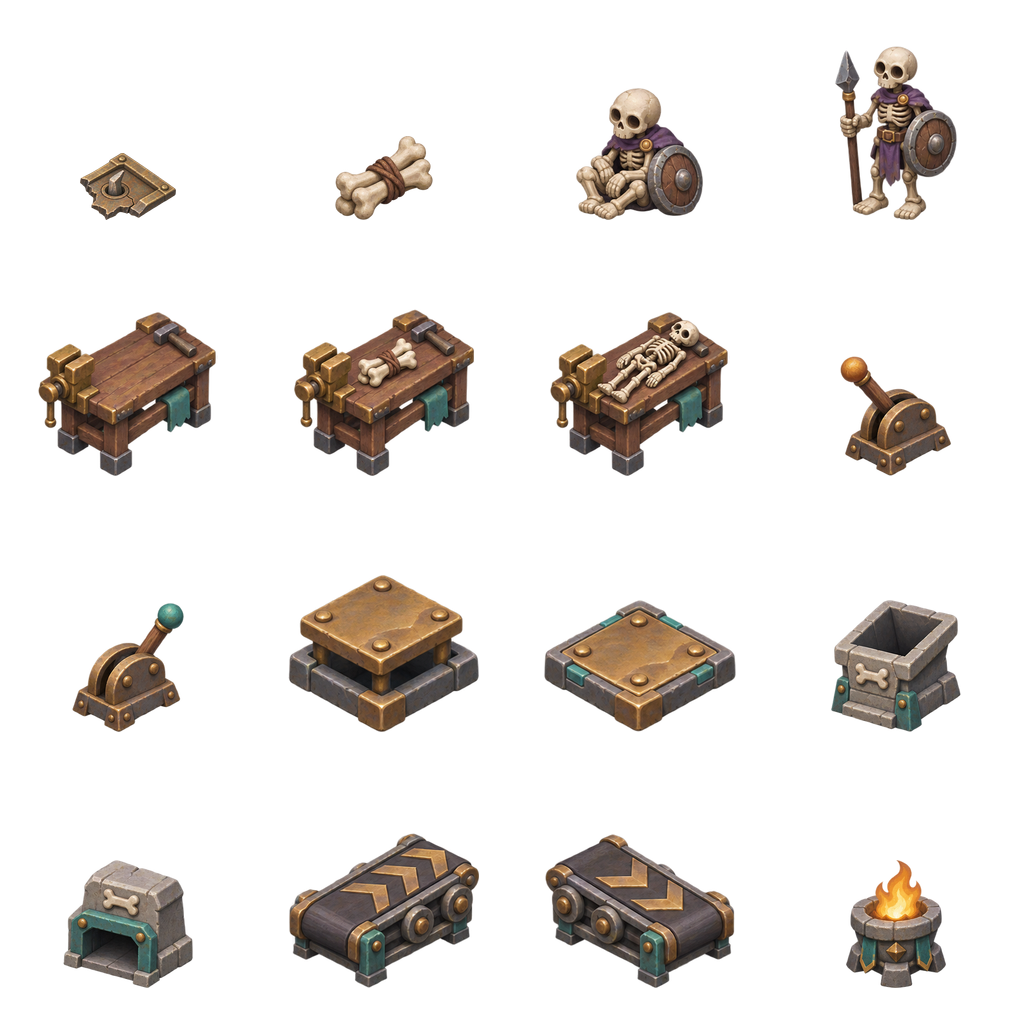
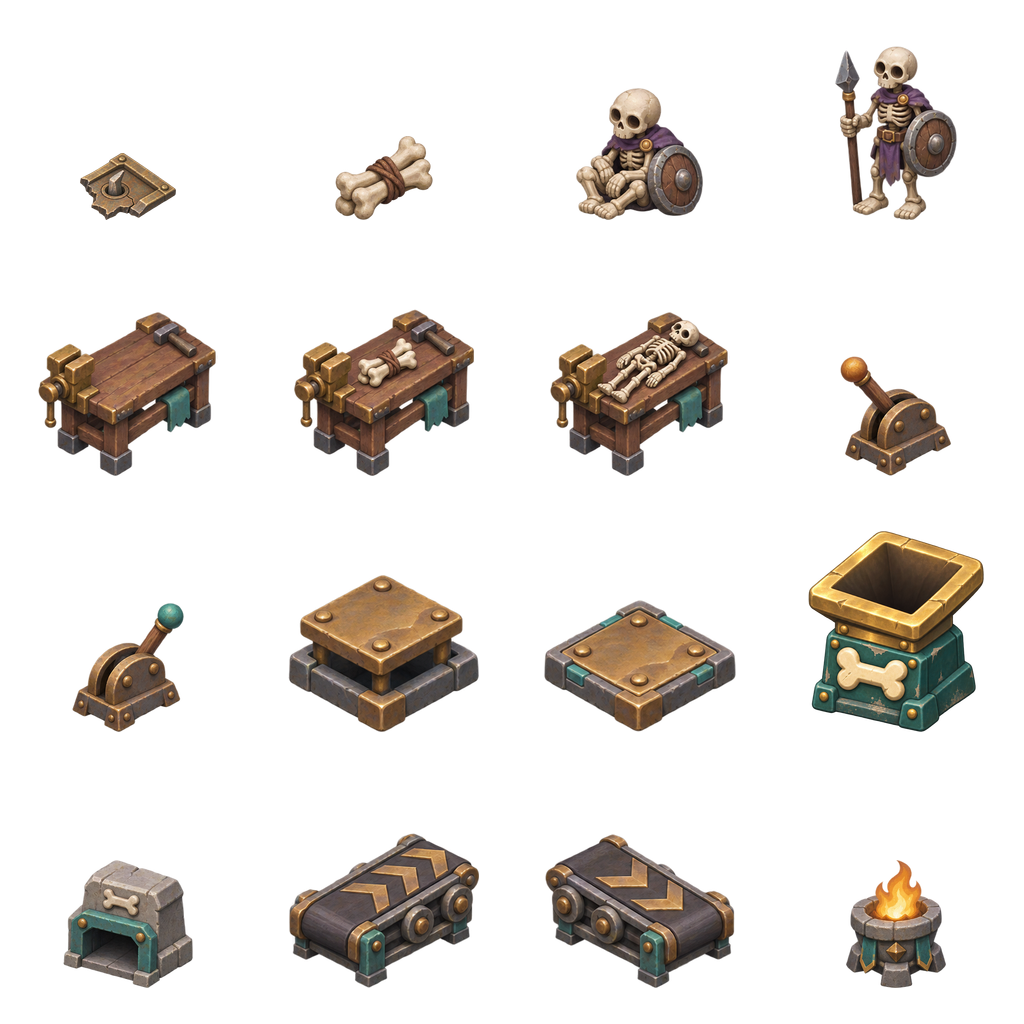
feat: 뼈 투입구 디자인을 확대하고 앞 문에 가리는 문제 개선

Changed region(s): [[0.7812, 0.5, 0.9688, 0.7188]]

diff --git a/game/view.py b/game/view.py
@@ -114,6 +114,7 @@ class View:
     def reset_gates(self):
         self.gate_game = None
         self.gate_motions = {}
+        self.gate_inlets = {}
 
     def reset_plates(self):
         self.plate_motions = {}
@@ -303,6 +304,18 @@ class View:
                     return pos
                 if gate_mask:
                     sx, sy, scale, opening, flip = gate_mask
+                    # 반투명 문 너머 실제로 보이는 투입구를 클릭하면 그 칸을 고른다.
+                    through_inlet = False
+                    for inlet_region in self.gate_inlets.get((pos, (left, bottom, right, top)), ()):
+                        if inlet_region not in self.hit_regions:
+                            continue
+                        inlet = self.hit_masks[inlet_region]
+                        if self.art.hit_test(*inlet[:4], (x, y), *inlet[4:]):
+                            through_inlet = True
+                            break
+                    if through_inlet:
+                        # 문만 통과시켜 그 사이의 다른 불투명 물체는 정상적으로 판정한다.
+                        continue
                     if not self.art.gate_hit_test(sx, sy, scale, (x, y), opening, flip):
                         continue
                     return pos
@@ -435,9 +448,22 @@ class View:
         flip = along_x > along_y
         if opening is None:
             opening = 0 if status == "closed" else 1
-        sprite = self.art.draw_gate(sx, sy, scale, opening, flip=flip)
+        left, bottom, right, top = self.art.bounds("gate_closed", sx, sy, scale, flip)
+        hidden_inlets = [region for region, mask in self.hit_masks.items()
+                         if mask[0] == "chute_inlet"
+                         and min(right, region[1][2]) - max(left, region[1][0]) > 12
+                         and min(top, region[1][3]) - max(bottom, region[1][1]) > 12]
+        atlas = self.art.atlases["gates"]
+        # 앞쪽 문의 형체는 남기되, 뒤에 있는 필수 장치가 완전히 묻히지 않게 한다.
+        atlas.opacify(.42 if hidden_inlets else 1)
+        try:
+            sprite = self.art.draw_gate(sx, sy, scale, opening, flip=flip)
+        finally:
+            atlas.opacify(1)
         self.sprite_hit_region(pos, sprite, sx, sy, scale, flip)
         self.gate_hit_masks[self.hit_regions[-1]] = (sx, sy, scale, opening, flip)
+        if hidden_inlets:
+            self.gate_inlets[self.hit_regions[-1]] = hidden_inlets
 
     def board(self, game):
         level, state = game.level, game.state
@@ -471,6 +497,7 @@ class View:
         self.hit_regions.clear()
         self.hit_masks.clear()
         self.gate_hit_masks.clear()
+        self.gate_inlets.clear()
         self.plate_hit_masks.clear()
 
         exit_ready = (state.installed == level.traps and (not level.traps or state.active)
@@ -543,7 +570,7 @@ class View:
                     labels.append((pos, "벨트 " + {"up": "↗", "right": "↘", "down": "↙", "left": "↖"}[direction]))
                 if pos in level.chutes:
                     objects.append((depth, 1, "chute_inlet", sx, sy))
-                    labels.append((pos, f"{level.device_labels[pos]} 투입"))
+                    labels.append((pos, "뼈 투입구"))
                 elif pos in level.chutes.values():
                     objects.append((depth, 0.5, "chute_outlet", sx, sy))
                     if pos not in level.plates:

diff --git a/tests/smoke_gates.py b/tests/smoke_gates.py
@@ -2,6 +2,7 @@
 
 from copy import deepcopy
 from dataclasses import replace
+import ctypes
 from math import ceil, floor
 from unittest.mock import patch
 
@@ -53,6 +54,20 @@ def main():
                            for y in range(ceil(top) - 1, floor(bottom), -1)
                            for x in range(ceil(left), ceil(right)))
                 assert game.walkable(gate) == (status == "open")
+                alpha = ctypes.c_ubyte()
+                assert p.SDL_GetTextureAlphaMod(view.art.atlases["gates"].texture, ctypes.byref(alpha)) == 0
+                assert alpha.value == 255  # Transparency must not leak into the next gate draw.
+                if index == 4:
+                    assert view.gate_inlets
+                    inlet_region = next(iter(view.gate_inlets.values()))[0]
+                    inlet = view.hit_masks[inlet_region]
+                    ix1, iy1, ix2, iy2 = inlet_region[1]
+                    assert any(view.art.hit_test(*inlet[:4], (x, y), *inlet[4:])
+                               and view.art.gate_hit_test(*view.gate_hit_masks[region][:3], (x, y),
+                                                         *view.gate_hit_masks[region][3:])
+                               and view.pick_cell(game, x, y) == inlet_region[0]
+                               for y in range(ceil(iy1), floor(iy2), 2)
+                               for x in range(ceil(ix1), floor(ix2), 2))
                 checked += 1
 
             check()

diff --git a/assets/art_v1/README.md b/assets/art_v1/README.md
@@ -14,7 +14,7 @@
 | `objects/` | 17 | 부품, 뼈 묶음, 운반·배치 병사, 발판 일체형 파손 거치대, 작업대 3상태, 레버 2상태, 발판 2상태, 투입구 입·출력, 벨트 2방향, 화로 |
 | `characters/worker/` | 16 | NE·SE·SW·NW 각 방향의 대기·걷기 A·걷기 B·운반 자세 |
 | `atlases/` | 5 | 256px 셀로 재정렬한 환경·물체·캐릭터·낮은 벽 아틀라스와 거치대 단일 셀 |
-| `sources/` | 17 PNG + JSON | 빌드에 사용하는 원본 15장과 이전 몬스터 발판·독립 거치대 원본 2장, 전체 프롬프트. 원본 PNG는 보존한다. |
+| `sources/` | 18 PNG + JSON | 빌드에 사용하는 원본 16장과 이전 몬스터 발판·독립 거치대 원본 2장, 전체 프롬프트. 원본 PNG는 보존한다. |
 | `previews/` | 3 | 전체 목록, 입문 3번 방 조립 예시, 4×4 타일 연결 검토 |
 
 개별 PNG는 모두 **256×256 RGBA8**이다. 환경 아틀라스는 **1024×768**, 물체·캐릭터 아틀라스는 **1024×1024**, 추가 낮은 벽 아틀라스는 **1024×768**, 거치대 아틀라스는 **256×256**이다. 자세한 파일·크기·기준점·SHA-256·프레임 좌표는 [manifest.json](manifest.json)에 기록한다.
@@ -26,6 +26,12 @@
 빈 초소는 [발판 일체형 파손 거치대](objects/post_rack.png) 한 장으로 표시한다. 거치대가 발판의 황동 고정부에 직접 연결되고, 찢어진 천과 깨진 방패가 발판에 닿도록 함께 그렸다. 크게 파손된 투구·어깨 갑옷·방패는 유지하며, 중복되는 바닥 해골 문양과 별도 나무 다리를 제거했다. 차분한 보라색 석재와 황동 테두리, 앞쪽의 작은 발자국으로 전체 색감과 비율을 맞췄다.
 
 병사를 배치하면 같은 디자인의 `post_empty` 바닥과 기존 `soldier_deployed`로 전환한다. 통합 그림과 바닥의 폭 224px·아랫변·기준점 `(128, 160)`을 맞춰 전환 시 위치를 유지한다. 빈자리에는 ‘몬스터 배치’, 병사를 놓은 뒤에는 ‘배치 완료’를 표시한다. 되돌리기·재시작하면 통합 그림이 돌아온다. 내장 `image_gen`의 [통합 원본](sources/monster-post-integrated.png), [배치 후 바닥 원본](sources/monster-post-base-v2.png), [전체 프롬프트](sources/monster-post-integrated-prompts.json)를 보존했다. `node tools/art/build.mjs`로 재생성하며, 빌드는 투명 여백 정리·정렬·축소만 수행한다. 이전 독립 발판·거치대 원본과 프롬프트는 제작 기록으로 남긴다.
+
+### 2026-11-11 뼈 투입구 가독성
+
+`chute_inlet`을 큰 황동 테두리와 열린 투입구, 청록색 몸체, 밝은 뼈 표식으로 교체했다. 표시 폭을 130px에서 176px로 확대하고 기존 바닥 기준점 `(128, 198)`은 유지한다. 내장 `image_gen`으로 제작한 [원본](sources/bone-inlet-v2.png)과 [전체 프롬프트](sources/bone-inlet-v2-prompt.json)를 보존하며 기존 빌드 스크립트로 재생성한다. 공용 투입구를 사용하는 5·7·8번 방에 적용한다. 배출구 에셋은 변경하지 않았다.
+
+투입구를 앞에서 가리는 문만 42% 불투명도로 그린다. 문 개폐·통행 판정은 유지하며, 비쳐 보이는 투입구 부분의 클릭은 앞 문을 통과해 뒤 물체를 선택한다. 문과 투입구 사이에 불투명한 물체가 있으면 해당 물체가 우선한다. 각 문을 그린 뒤 텍스처 불투명도를 100%로 복구한다. [5번 방](../../docs/screenshots/vent-v2/inlet-visible.png)과 [뼈 전송 후](../../docs/screenshots/vent-v2/transferred.png)를 확인할 수 있다.
 
 ### 2026-11-09 부품 교체
 
@@ -111,7 +117,7 @@ draw_at_ground(image, entry, sx=445, sy=500, scale=94 / 224)
 
 캐릭터 `ne/se/sw/nw`는 **화면에서 보이는 방향**이다. W/위 = `ne`, D/오른쪽 = `se`, S/아래 = `sw`, A/왼쪽 = `nw`로 연결했다. 게임은 한 칸 이동을 0.18초 동안 표시하고, 전반·후반에 `walk_a`, `walk_b`를 사용한 뒤 대기로 돌아간다. 운반 중에는 `carry` 자세에 물건을 별도 합성한다. 논리 판정은 즉시 반영하고 표시 위치만 보간한다. 되돌리기·재시작·방 전환은 진행 중인 보간을 취소한다. manifest의 6fps는 제작 당시 제안값이며 현재 게임의 재생 간격과는 구분한다.
 
-발판·뼈 투입구·운반 벨트는 **후속 기믹용 그림만 준비된 상태**다. 벨트는 `ne`, `se` 두 방향만 있다. UI 패널·버튼, 효과 애니메이션, 사운드, 최종 걷기 보정은 이번 팩에 포함하지 않는다.
+발판·뼈 투입구·운반 벨트는 현재 게임에 연결되어 있다. 벨트는 `ne`, `se` 두 방향의 원본을 뒤집어 네 방향으로 표시한다. UI 패널·버튼과 사운드는 이 에셋 팩에 포함하지 않는다.
 
 ## 재생성과 검사
 
